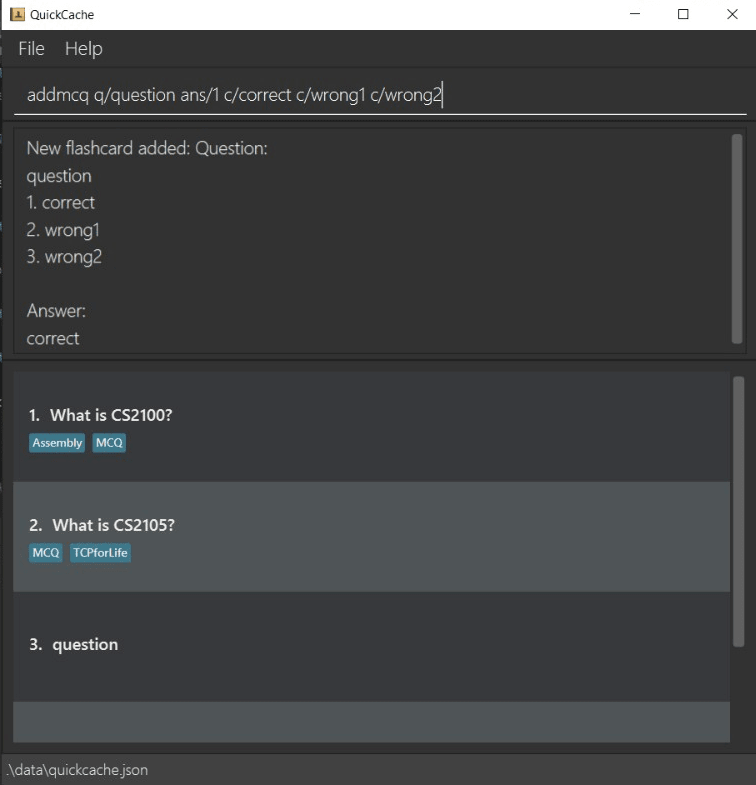
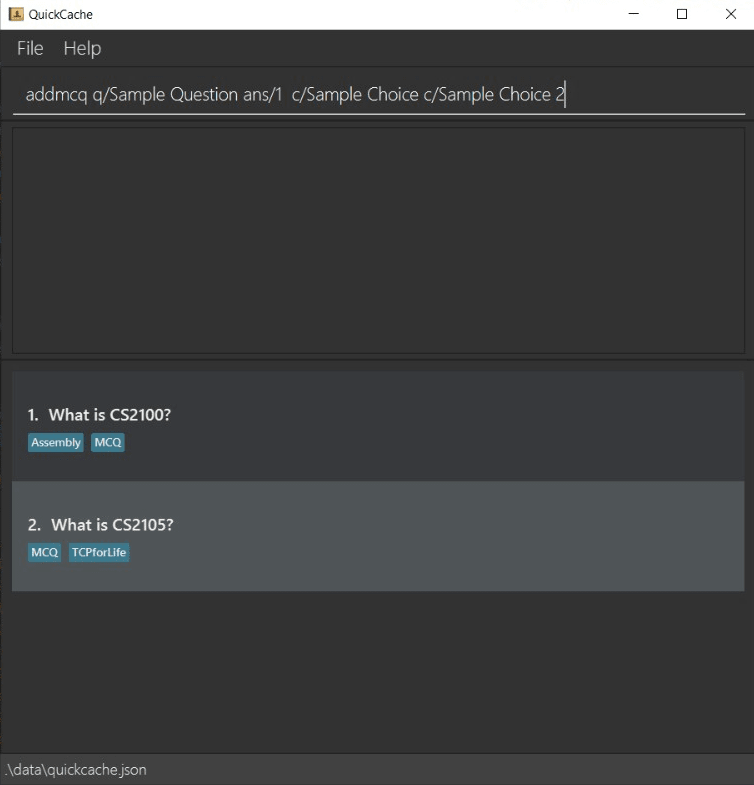
Update User guide for add and addmcqwith updated pictures

diff --git a/docs/UserGuide.md b/docs/UserGuide.md
@@ -79,30 +79,30 @@ Format: `help`
 
 ![help message](images/helpMessage.png)
 
-### Creating a new flashcard : You can add a new flashcard to the list.
-#### Creating a flashcard with open ended question: `add`
+### Creating a new flashcard
+You can add a new flashcard to the list.
+#### Creating a flashcard with open ended question: `add q/QUESTION ans/ANSWER`
 You can create a flashcard that contains an open ended question which will be added to the list.
 
-Format: `add q/QUESTION ans/ANSWER`
-
-Examples:
-* `add q/Plants give out ___ when they photosynthesise? ans/Oxygen`
-
+1. You can use the add command to add a flashcard with an open ended question which will be added to the list.
+For example, you can enter`add q/Sample Question ans/Sample Answer`
 ![addOpenEnded](images/addOpenEnded.png)
+2. You have successfully created a flashcard with an open ended question and it will be saved immediately in the list.
+![addOpenEnded2](images/addOpenEnded2.png)
 
 <div class="alert alert-danger">
 You cannot add a flashcard with empty question and empty answer.
 </div>
 
-#### Creating a flashcard with multiple choice question: `addmcq`
+#### Creating a flashcard with multiple choice question: `addmcq q/QUESTION ans/ANSWER c/FIRST_CHOICE c/SECOND_CHOICE ..`
 You can create a flashcard that contains a multiple choice question which will be added to the list.
 
-Format: `addmcq q/QUESTION ans/ANSWER c/FIRST_CHOICE c/SECOND_CHOICE ..`
 
-Examples:
-* `addmcq q/Plants give out ___ when they photosynthesise? ans/1 c/Oxygen c/Carbon c/Carbon dioxide`
-
+1. You can use the addmcq command to add a flashcard with a multiple choice question which will be added to the list.
+For example, you can enter `addmcq q/Sample Question ans/1  c/Sample Choice c/Sample Choice 2`
 ![addMCQ](images/addMCQ.png)
+2. You have successfully created a flashcard with a multiple choice question and it will be saved immediately in the list.
+![addMCQ2](images/addMCQ2.png)
 
 <div class="alert alert-danger">
 You cannot add flashcard with missing question or missing answer or missing choice.
